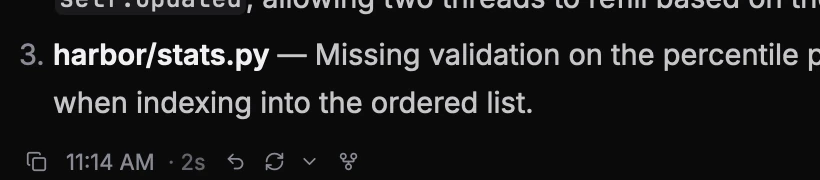
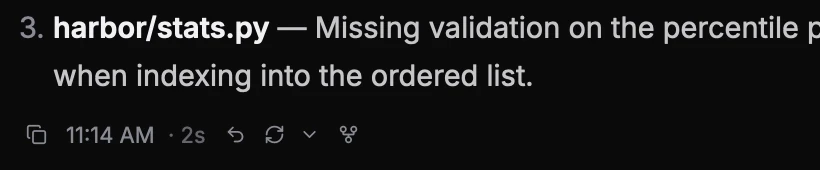
The Night undo picture starts on a whole line.

Changed region(s): [[0.0, 0.0882, 1.0, 0.6765], [0.0305, 0.7353, 0.4573, 0.9706], [0.061, 0.0, 1.0, 0.0882]]

diff --git a/site/index.html b/site/index.html
@@ -183,7 +183,7 @@
     </article>
     <article class="feat feat-mini reveal">
       <div class="mini-media">
-        <picture><source media="(prefers-color-scheme: dark)" srcset="/assets/img/features/undo-night.webp?v=2f3b73f3"><img class="shot" src="/assets/img/features/undo-paper.webp?v=9fcdf9b5" width="410" height="110" loading="lazy" decoding="async" alt="The end of an agent's turn, with its buttons: copy, undo, retry, retry with another model, and fork."></picture>
+        <picture><source media="(prefers-color-scheme: dark)" srcset="/assets/img/features/undo-night.webp?v=6128bafa"><img class="shot" src="/assets/img/features/undo-paper.webp?v=9fcdf9b5" width="410" height="110" loading="lazy" decoding="async" alt="The end of an agent's turn, with its buttons: copy, undo, retry, retry with another model, and fork."></picture>
       </div>
       <h3>Undo any turn</h3>
       <p>Edit, retry or fork. Files roll back too.</p>
